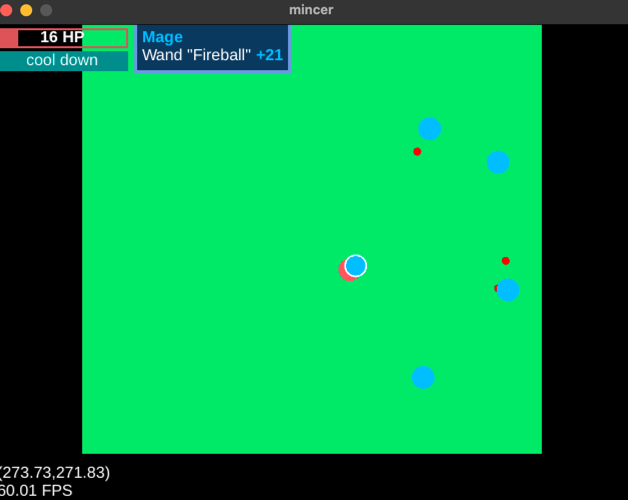
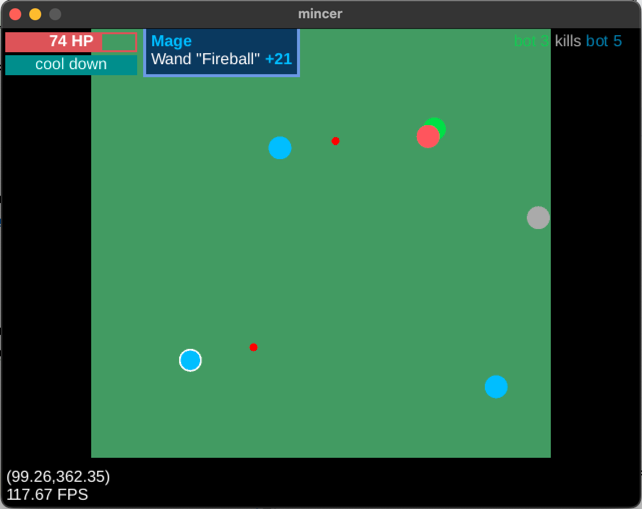
chore: fixed readme

diff --git a/server/internal/handler/nc/consumer.go b/server/internal/handler/nc/consumer.go
@@ -61,7 +61,11 @@ func (c *Consumer) listen(ctx context.Context) {
 
 	stopped := c.usecase.StartLifeCycle(ctx)
 
-	//c.usecase.AddBot()
+	c.usecase.AddBot()
+	c.usecase.AddBot()
+	c.usecase.AddBot()
+	c.usecase.AddBot()
+	c.usecase.AddBot()
 
 	for {
 		// TODO startTime := time.Now()

diff --git a/readme.md b/readme.md
@@ -1,4 +1,113 @@
-mincer
----
+# mincer / мясорубка
+
+Клиент-серверная игра.
+
+## Интерфейс
 
 ![img.png](img.png)
+
+### HUD
+
+- Красная шкала со здоровьем
+- Cool down шкала скорости атак
+- Небольшое синее окно с классом персонажа, оружием и уроном
+- Справа информационные сообщения (убийства, присоединения/отсоединения других игроков)
+- Снизу координаты и FPS
+
+### Динамика игры
+
+- Зелёное поле - поле битвы
+- Игровой персонаж обведён белой обводкой.
+- Синие персонажи - маги, красные - воины, зелёные - лучники, серые - мёртвые игроки.
+- Маги и лучники стреляют фаерболами (маленькие красные кружки) и стрелами (черные точки), соответственно.
+- Воины подходят и наносят урон вблизи.
+- У воинов и магов оружие наносит урон по радиусу. Лучники - только в одну цель.
+- В игру добавлено несколько ботов.
+
+## Сборка и запуск
+
+### Подготовка
+
+1. Установить кодогенератор для proto файлов:
+    ```shell
+    sudo apt install protobuf-compiler protoc-gen-go
+    ```
+
+2. Установить утилиту make для сборки:
+    ```shell
+    sudo apt-get install make
+    ```
+
+3. Установить C компилятор для [Mac](https://ebitengine.org/en/documents/install.html?os=darwin#Installing_a_C_compiler) или для [Linux](https://ebitengine.org/en/documents/install.html?os=linux#Installing_a_C_compiler) и зависимости для [Linux](https://ebitengine.org/en/documents/install.html?os=linux#Installing_dependencies), чтобы собрать клиентское приложение.
+
+### Сборка серверной и клиентской части
+
+```shell
+make build
+```
+
+Бинарные файлы будут помещены в [/bin](/bin).
+
+### Генерация конфигурационных файлов
+
+1. Сгенерировать пароль для Postgres:
+   ```shell
+   printf $(head -c 32 /dev/random | base64) > ./server/config/pg_password
+   ```
+
+2. Сгенерировать приватный ключ для взаимодействия netcode с клиентами:
+   ```shell
+   openssl rand -base64 32 > ./server/config/nc_private_key
+   ```
+
+3. Сгенерировать конфиг для миграций:
+   ```shell
+   printf '[database]
+   host = postgres
+   port = 5432
+   database = mincer
+   user = mincer
+   password = '$(cat ./server/config/pg_password)'
+   
+   [data]
+   ' > ./server/config/migrations.conf
+   ```
+
+### Запуск
+
+1. Запустить базу данных в докере:
+   ```shell
+   docker-compose up --build -d postgres
+   ```
+
+2. Провести миграции в БД:
+   ```shell
+   docker-compose up --build migrations
+   ```
+
+3. Запустить сервер:
+   ```shell
+   POSTGRES_PASSWORD_FILE=server/config/pg_password \
+   NC_PRIVATE_KEY_FILE=server/config/nc_private_key \
+   LOG_LEVEL=info ./bin/server
+   ```
+
+4. Запустить клиент (или несколько клиентов):
+   ```shell
+   ./bin/client -a http://localhost:8080/token
+   ```
+   localhost или локальный IP сервера
+
+## Управление
+
+### На сервере
+
+- Ctrl+C для изящного выключения
+- переменные среды (см. [env.go](server/internal/configuration/env.go))
+
+### На клиенте
+
+- WASD или стрелки для движения персонажа
+- Space для удара или запуска фаербола/стрелы
+- R для возрождения
+- Esc для выхода из игры
